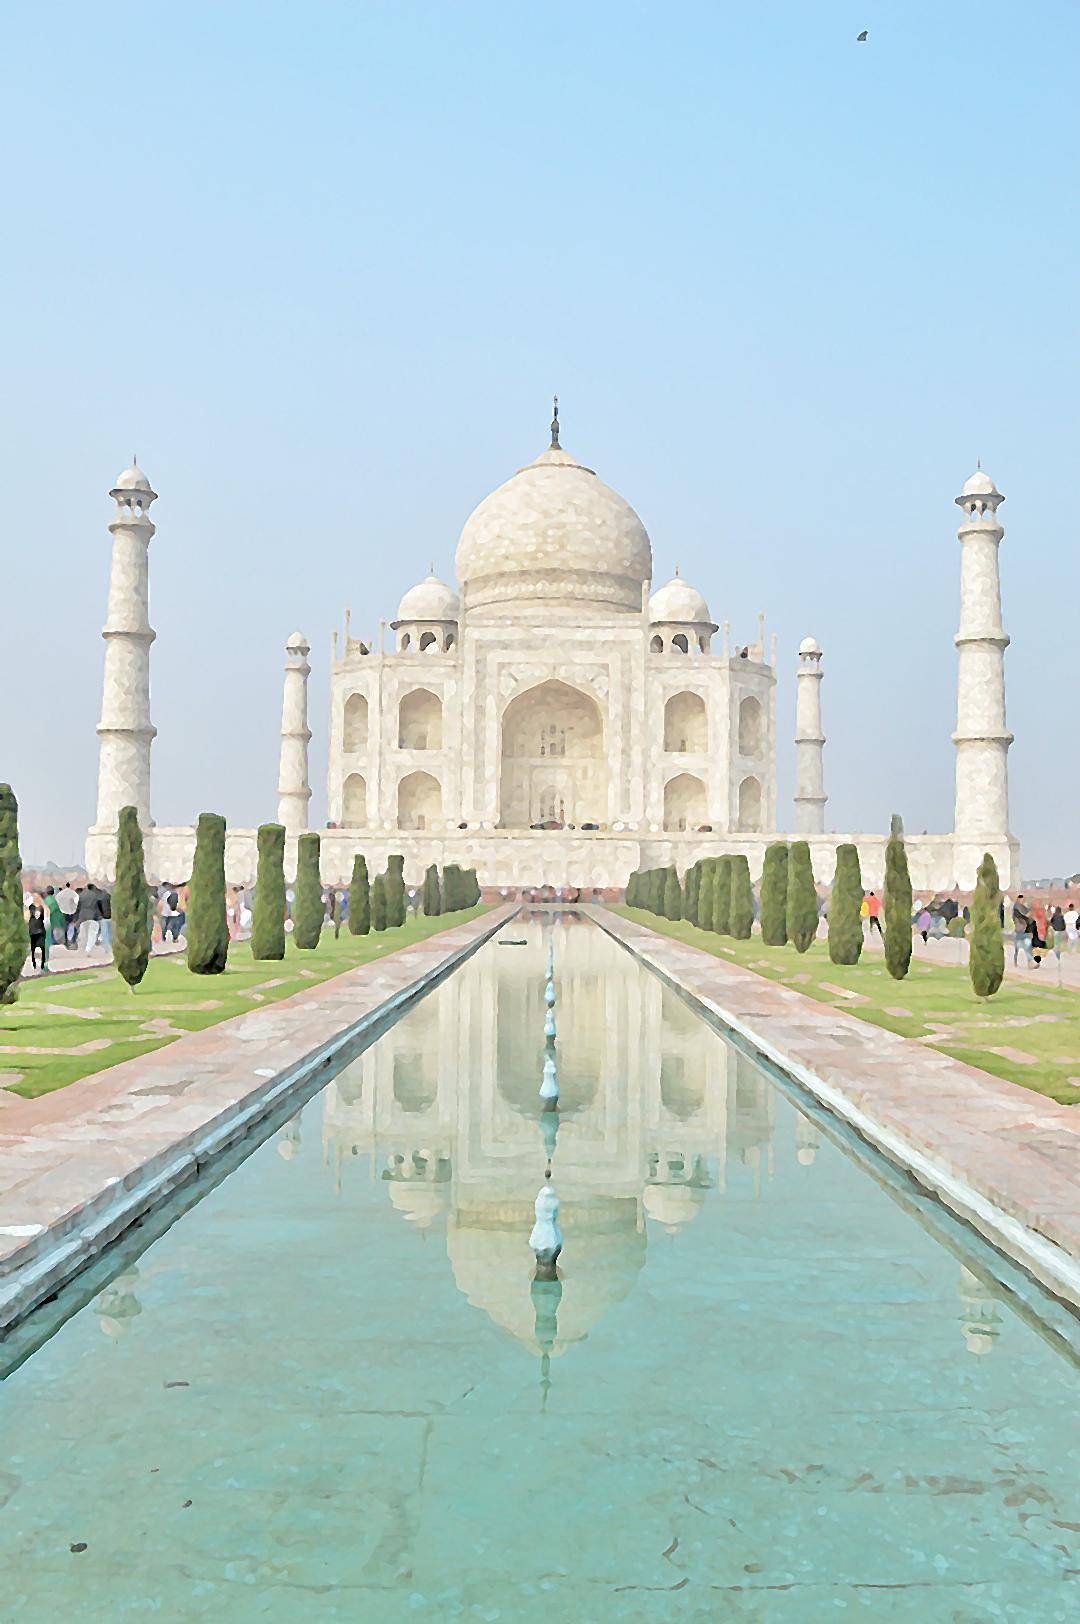
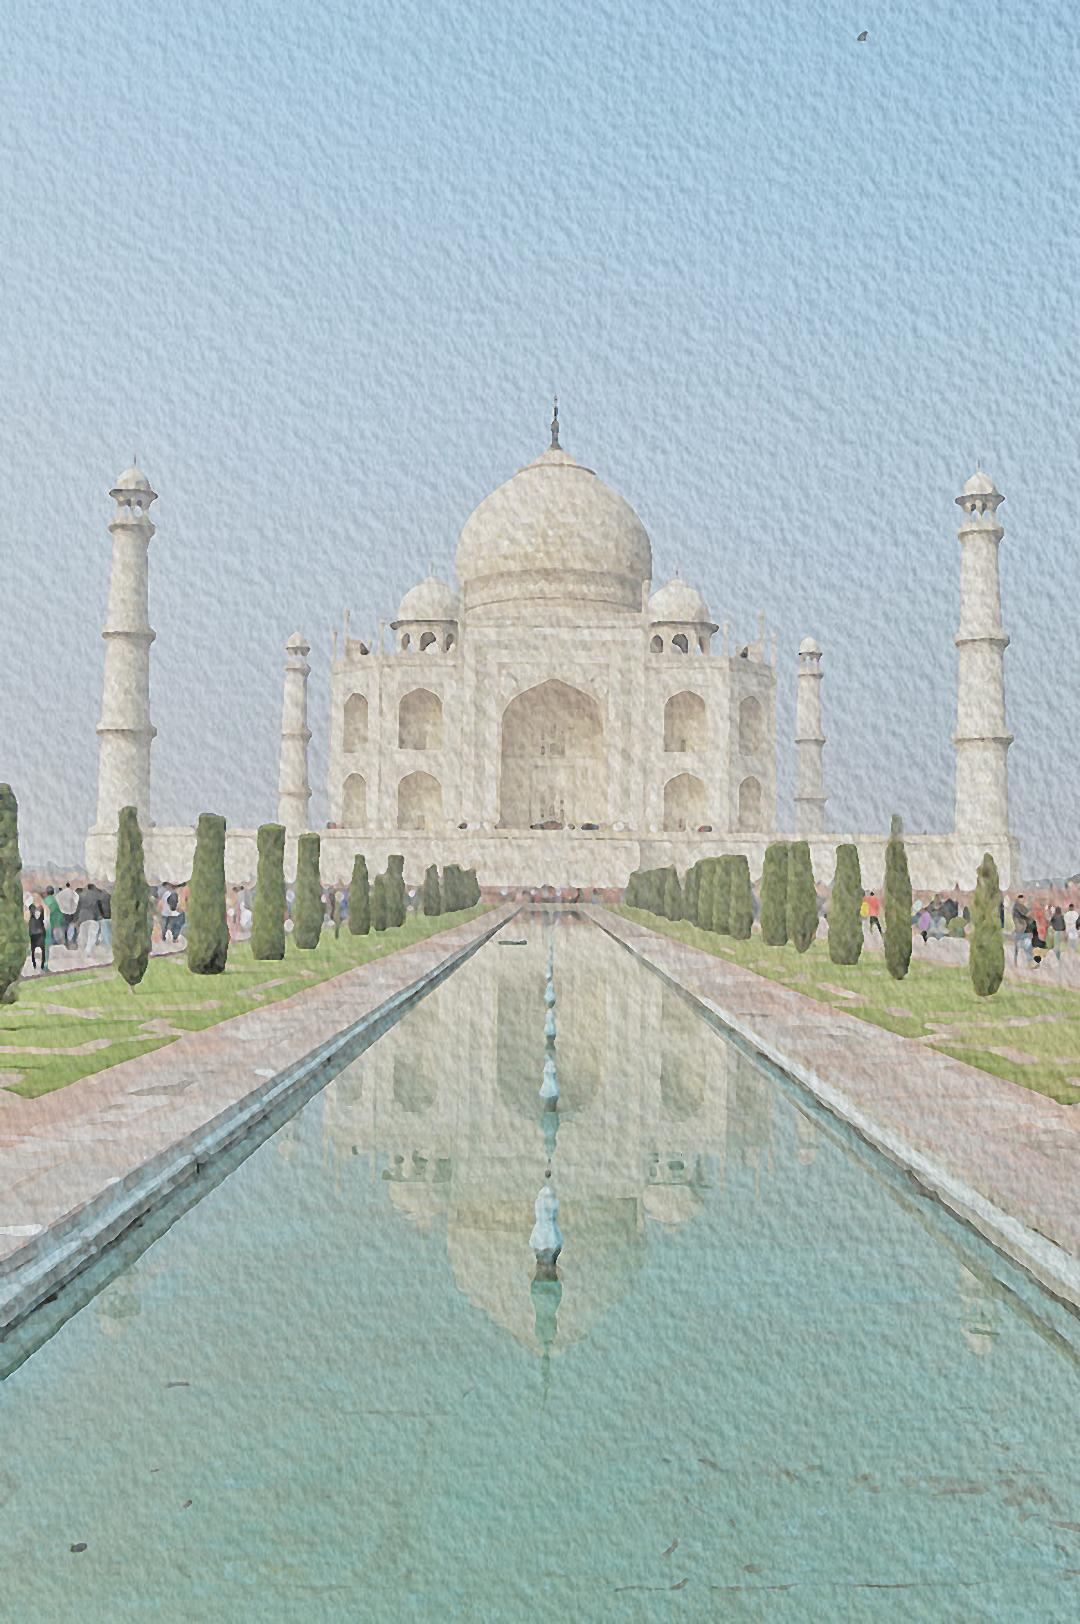
feat: add texture to watercolor

diff --git a/water_color.py b/water_color.py
@@ -2,7 +2,7 @@ from argparse import ArgumentParser
 from math import floor
 
 import numpy as np
-from PIL import Image
+from PIL import Image, ImageEnhance
 from scipy.ndimage import convolve, median_filter
 
 
@@ -26,6 +26,15 @@ def sharpen(pixels):
         tuple(convolve(pixels[:, :, c], kernel, mode='nearest') for c in range(3)), axis=2)
     return np.clip(pixels, a_min=0, a_max=255)
 
+def add_texture(image, texture_path):
+    texture = Image.open(texture_path)
+    texture = texture.convert('L').resize(image.size)
+    texture = ImageEnhance.Brightness(texture).enhance(0.7)
+    texture = ImageEnhance.Contrast(texture).enhance(1.5)
+    texture = texture.convert('RGB')
+    textured_image = Image.blend(image, texture, alpha=0.3)
+    return textured_image
+
 def main(args):
     pixels = read_image(args.input)
     pixels = gamma_brighten(pixels)
@@ -39,7 +48,10 @@ def main(args):
     
     pixels = sharpen(pixels)
     pixels = denoise(pixels, 3)
-    Image.fromarray(np.uint8(pixels)).convert('RGB').save(args.output)
+
+    image = Image.fromarray(np.uint8(pixels)).convert('RGB')
+    image = add_texture(image, args.texture)
+    image.save(args.output)
     print(f'The output image saved at {args.output}')
 
 
@@ -48,5 +60,6 @@ if __name__ == '__main__':
     parser.add_argument('--input', type=str, required=True)
     parser.add_argument('--output', type=str, default='output.jpg')
     parser.add_argument('--radius', type=int, default=-1)
+    parser.add_argument('--texture', type=str, default='texture/watercolor.jpg')
     args = parser.parse_args()
     main(args)
